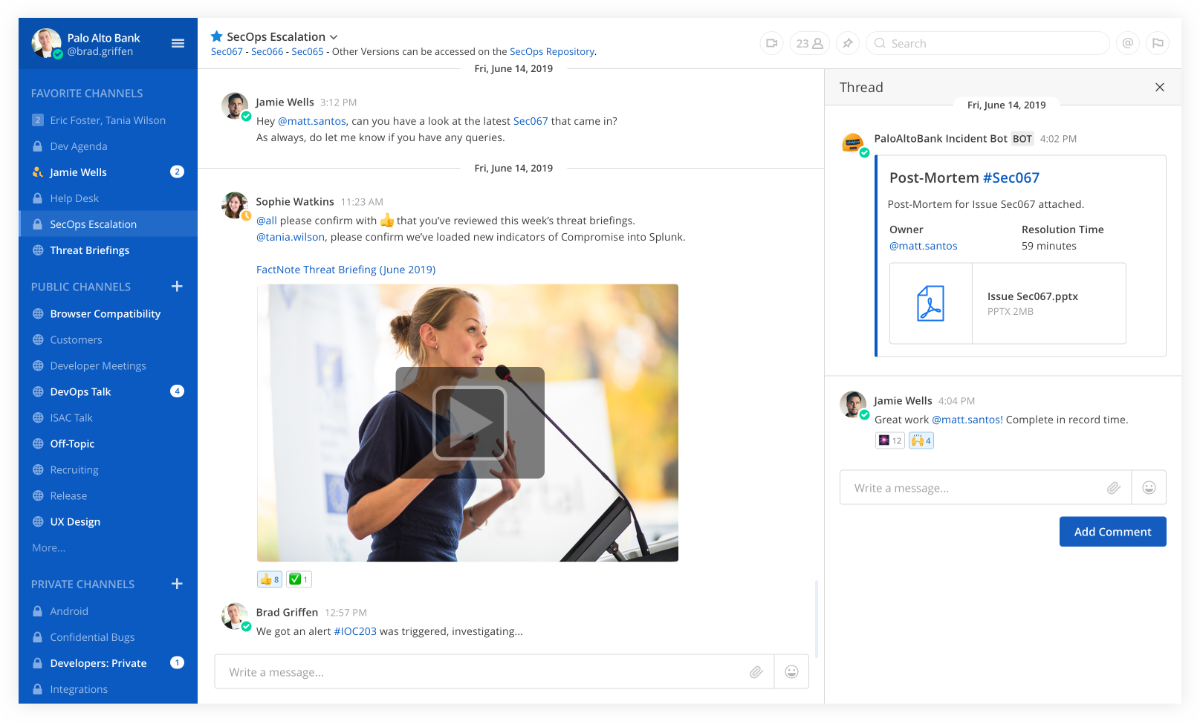
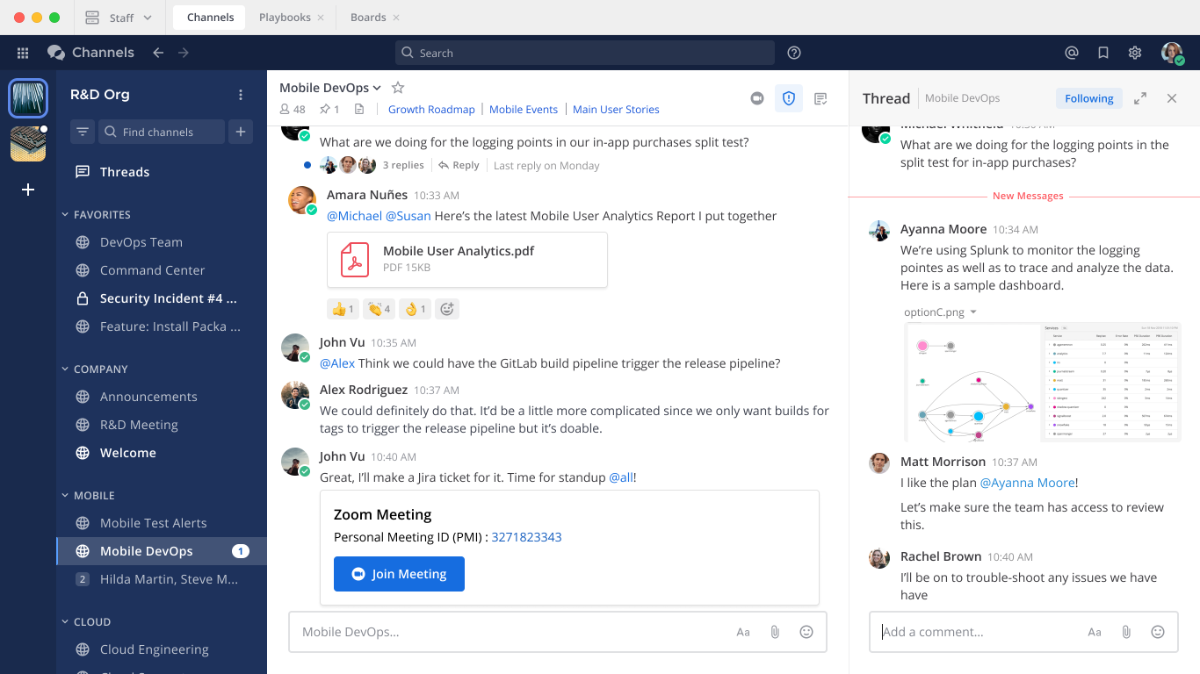
11.1.0 (#548) (#549)
* 11.1.0 (#548)

* bump

* Auto-update READMEs

* Update screenshot.png

* Update install

---------

* Update config.json

---------

diff --git a/README.md b/README.md
@@ -11,7 +11,7 @@ It shall NOT be edited by hand.
 Collaboration platform built for developers
 
 [![🌐 Official app website](https://img.shields.io/badge/Official_app_website-darkgreen?style=for-the-badge)](http://www.mattermost.org/)
-[![Version: 10.12.0~ynh2](https://img.shields.io/badge/Version-10.12.0~ynh2-rgb(18,138,11)?style=for-the-badge)](https://ci-apps.yunohost.org/ci/apps/mattermost/)
+[![Version: 11.1.0~ynh1](https://img.shields.io/badge/Version-11.1.0~ynh1-rgb(18,138,11)?style=for-the-badge)](https://ci-apps.yunohost.org/ci/apps/mattermost/)
 
 <div align="center">
 <a href="https://apps.yunohost.org/app/mattermost"><img height="100px" src="https://github.com/YunoHost/yunohost-artwork/raw/refs/heads/main/badges/neopossum-badges/badge_more_info_on_the_appstore.svg"/></a>
